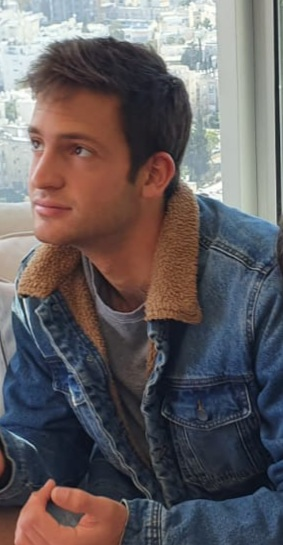
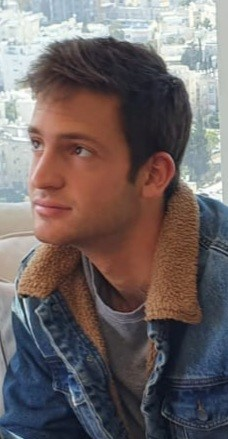
updated links to social media

diff --git a/index.html b/index.html
@@ -226,22 +226,17 @@
     <div class="row">
       <div class="col-sm-4">
         <div class="team-member">
-          <img class="prof-img rounded-circle" src="img/Ethan_profile.jpg" alt=""/>
-          <h4>Larry Parker</h4>
-          <p class="text-muted">Lead Marketer</p>
+          <img class="rounded-circle" src="img/Ethan_profile.jpg" alt=""/>
+          <h4>Ethan Georlette</h4>
+          <p class="text-muted">Programmer</p>
           <ul class="list-inline social-buttons">
             <li class="list-inline-item">
-              <a href="#">
-                <i class="fa fa-twitter"></i>
-              </a>
-            </li>
-            <li class="list-inline-item">
-              <a href="#">
+              <a href="https://www.facebook.com/georlette">
                 <i class="fa fa-facebook"></i>
               </a>
             </li>
             <li class="list-inline-item">
-              <a href="#">
+              <a href="https://www.linkedin.com/in/ethan-georlette-061a20216">
                 <i class="fa fa-linkedin"></i>
               </a>
             </li>

diff --git a/css/ca-gallery.css b/css/ca-gallery.css
@@ -564,6 +564,7 @@ header.masthead .intro-text .intro-heading {
 .team-member img {
     width: 225px;
     height: 350px;
+    padding-left: 5px;
     border: 7px solid white;
 }
 .team-member h4 {
